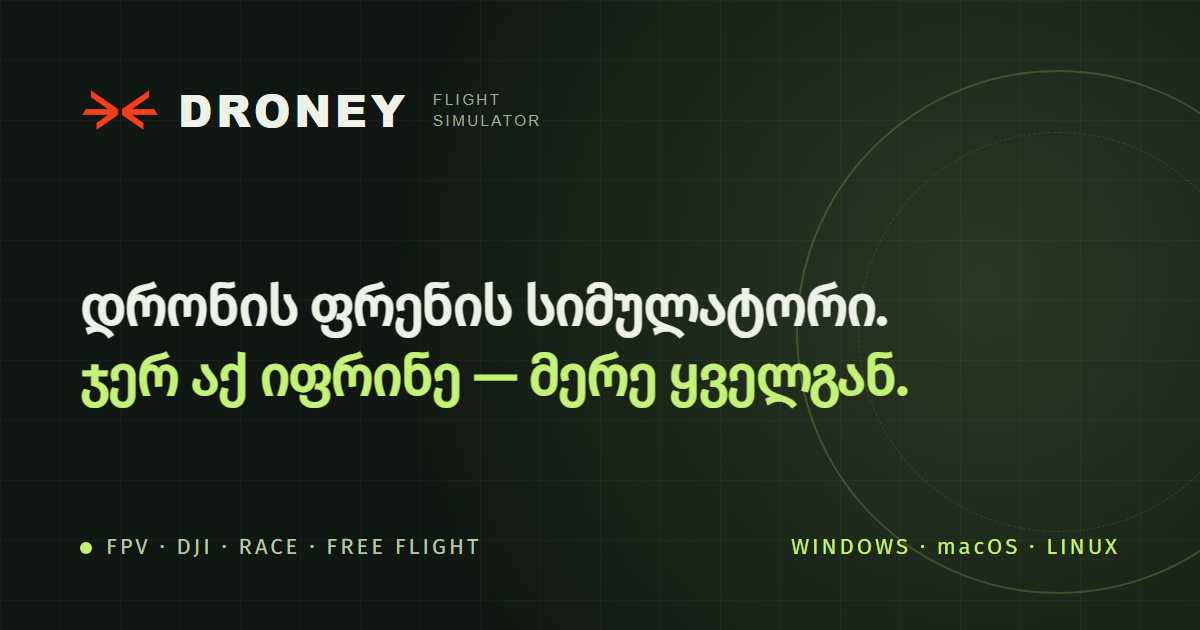
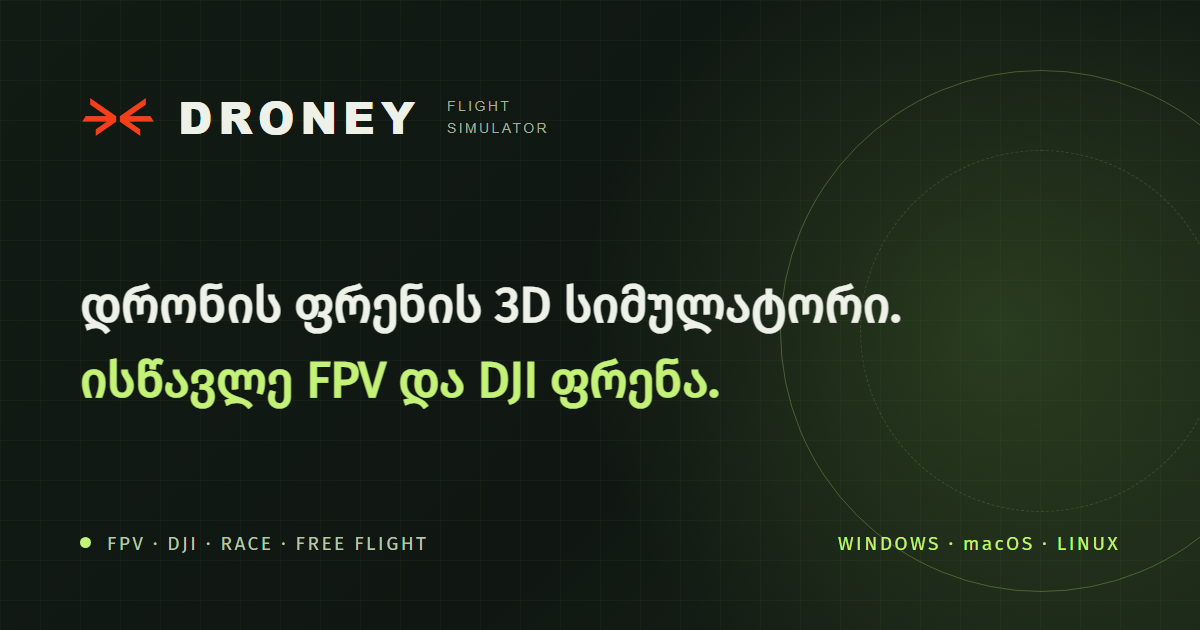
Refresh social preview image with the new 3D simulator copy

diff --git a/index.html b/index.html
@@ -1,5 +1,5 @@
 <!doctype html>
-<html lang="ka"><head><meta charset="utf-8"><meta name="viewport" content="width=device-width, initial-scale=1"><meta name="theme-color" content="#101712"><meta name="description" content="ისწავლე დრონის მართვა DRONEY-ის 3D სიმულატორში. ივარჯიშე FPV და DJI ფრენაში, გაიარე რბოლის ტრასები და გამოიყენე კლავიატურა ან დრონის პულტი."><title>DRONEY – დრონის ფრენის 3D სიმულატორი | FPV &amp; DJI</title><link rel="icon" href="assets/mark.png"><link rel="canonical" href="https://droney.ge/"><link rel="alternate" hreflang="ka" href="https://droney.ge/"><link rel="alternate" hreflang="en" href="https://droney.ge/?lang=en"><link rel="alternate" hreflang="x-default" href="https://droney.ge/"><meta name="robots" content="index, follow, max-image-preview:large"><meta property="og:type" content="website"><meta property="og:site_name" content="DRONEY"><meta property="og:locale" content="ka_GE"><meta property="og:locale:alternate" content="en_US"><meta property="og:url" content="https://droney.ge/"><meta property="og:title" content="DRONEY – დრონის ფრენის 3D სიმულატორი | FPV &amp; DJI"><meta property="og:description" content="ისწავლე დრონის მართვა DRONEY-ის 3D სიმულატორში. ივარჯიშე FPV და DJI ფრენაში, გაიარე რბოლის ტრასები და გამოიყენე კლავიატურა ან დრონის პულტი."><meta property="og:image" content="https://droney.ge/assets/og-image.png"><meta property="og:image:type" content="image/png"><meta property="og:image:width" content="1200"><meta property="og:image:height" content="630"><meta property="og:image:alt" content="DRONEY — დრონის ფრენის სიმულატორი"><meta name="twitter:card" content="summary_large_image"><meta name="twitter:title" content="DRONEY – დრონის ფრენის 3D სიმულატორი | FPV &amp; DJI"><meta name="twitter:description" content="ისწავლე დრონის მართვა DRONEY-ის 3D სიმულატორში. ივარჯიშე FPV და DJI ფრენაში, გაიარე რბოლის ტრასები და გამოიყენე კლავიატურა ან დრონის პულტი."><meta name="twitter:image" content="https://droney.ge/assets/og-image.png"><link rel="apple-touch-icon" href="assets/mark.png"><script type="application/ld+json">{"@context":"https://schema.org","@graph":[{"@type":"WebSite","@id":"https://droney.ge/#website","url":"https://droney.ge/","name":"DRONEY","inLanguage":["ka","en"]},{"@type":"SoftwareApplication","name":"DRONEY","alternateName":"DRONEY Flight Simulator","url":"https://droney.ge/","image":"https://droney.ge/assets/og-image.png","description":"ისწავლე დრონის მართვა DRONEY-ის 3D სიმულატორში. ივარჯიშე FPV და DJI ფრენაში, გაიარე რბოლის ტრასები და გამოიყენე კლავიატურა ან დრონის პულტი.","applicationCategory":"GameApplication","applicationSubCategory":"Drone flight simulator","operatingSystem":"Windows, macOS, Linux","inLanguage":["ka","en"],"downloadUrl":"https://github.com/iibekaia/droney-releases/releases/latest","offers":{"@type":"Offer","price":"0","priceCurrency":"GEL"}}]}</script><link rel="stylesheet" href="style.css"><script src="i18n.js" defer></script><script src="downloads.js" defer></script><script src="app.js" defer></script><script type="module" src="model-viewer.js"></script><script>(function(c,l,a,r,i,t,y){c[a]=c[a]||function(){(c[a].q=c[a].q||[]).push(arguments)};t=l.createElement(r);t.async=1;t.src="https://www.clarity.ms/tag/"+i;y=l.getElementsByTagName(r)[0];y.parentNode.insertBefore(t,y);})(window,document,"clarity","script","z5egdhqn2q");</script></head>
+<html lang="ka"><head><meta charset="utf-8"><meta name="viewport" content="width=device-width, initial-scale=1"><meta name="theme-color" content="#101712"><meta name="description" content="ისწავლე დრონის მართვა DRONEY-ის 3D სიმულატორში. ივარჯიშე FPV და DJI ფრენაში, გაიარე რბოლის ტრასები და გამოიყენე კლავიატურა ან დრონის პულტი."><title>DRONEY – დრონის ფრენის 3D სიმულატორი | FPV &amp; DJI</title><link rel="icon" href="assets/mark.png"><link rel="canonical" href="https://droney.ge/"><link rel="alternate" hreflang="ka" href="https://droney.ge/"><link rel="alternate" hreflang="en" href="https://droney.ge/?lang=en"><link rel="alternate" hreflang="x-default" href="https://droney.ge/"><meta name="robots" content="index, follow, max-image-preview:large"><meta property="og:type" content="website"><meta property="og:site_name" content="DRONEY"><meta property="og:locale" content="ka_GE"><meta property="og:locale:alternate" content="en_US"><meta property="og:url" content="https://droney.ge/"><meta property="og:title" content="DRONEY – დრონის ფრენის 3D სიმულატორი | FPV &amp; DJI"><meta property="og:description" content="ისწავლე დრონის მართვა DRONEY-ის 3D სიმულატორში. ივარჯიშე FPV და DJI ფრენაში, გაიარე რბოლის ტრასები და გამოიყენე კლავიატურა ან დრონის პულტი."><meta property="og:image" content="https://droney.ge/assets/og-image.png"><meta property="og:image:type" content="image/png"><meta property="og:image:width" content="1200"><meta property="og:image:height" content="630"><meta property="og:image:alt" content="DRONEY – დრონის ფრენის 3D სიმულატორი"><meta name="twitter:card" content="summary_large_image"><meta name="twitter:title" content="DRONEY – დრონის ფრენის 3D სიმულატორი | FPV &amp; DJI"><meta name="twitter:description" content="ისწავლე დრონის მართვა DRONEY-ის 3D სიმულატორში. ივარჯიშე FPV და DJI ფრენაში, გაიარე რბოლის ტრასები და გამოიყენე კლავიატურა ან დრონის პულტი."><meta name="twitter:image" content="https://droney.ge/assets/og-image.png"><link rel="apple-touch-icon" href="assets/mark.png"><script type="application/ld+json">{"@context":"https://schema.org","@graph":[{"@type":"WebSite","@id":"https://droney.ge/#website","url":"https://droney.ge/","name":"DRONEY","inLanguage":["ka","en"]},{"@type":"SoftwareApplication","name":"DRONEY","alternateName":"DRONEY Flight Simulator","url":"https://droney.ge/","image":"https://droney.ge/assets/og-image.png","description":"ისწავლე დრონის მართვა DRONEY-ის 3D სიმულატორში. ივარჯიშე FPV და DJI ფრენაში, გაიარე რბოლის ტრასები და გამოიყენე კლავიატურა ან დრონის პულტი.","applicationCategory":"GameApplication","applicationSubCategory":"Drone flight simulator","operatingSystem":"Windows, macOS, Linux","inLanguage":["ka","en"],"downloadUrl":"https://github.com/iibekaia/droney-releases/releases/latest","offers":{"@type":"Offer","price":"0","priceCurrency":"GEL"}}]}</script><link rel="stylesheet" href="style.css"><script src="i18n.js" defer></script><script src="downloads.js" defer></script><script src="app.js" defer></script><script type="module" src="model-viewer.js"></script><script>(function(c,l,a,r,i,t,y){c[a]=c[a]||function(){(c[a].q=c[a].q||[]).push(arguments)};t=l.createElement(r);t.async=1;t.src="https://www.clarity.ms/tag/"+i;y=l.getElementsByTagName(r)[0];y.parentNode.insertBefore(t,y);})(window,document,"clarity","script","z5egdhqn2q");</script></head>
 <body><header><a class="brand" href="#"><img src="assets/mark.png" alt="">DRONEY<span>FLIGHT SIMULATOR</span></a><nav aria-label="მთავარი ნავიგაცია" data-i18n-aria="nav.label"><a href="#experience" data-i18n="nav.try">გამოცადე</a><a href="#support" data-i18n="nav.support">მხარდაჭერა</a><a class="nav-download" href="#download" data-i18n="nav.download">გადმოწერა ↗</a><div class="lang-switch" role="group" aria-label="ენა" data-i18n-aria="lang.group"><button type="button" data-lang="ka" lang="ka" aria-label="ქართული" class="active" aria-pressed="true">ქარ</button><button type="button" data-lang="en" lang="en" aria-label="English" aria-pressed="false">EN</button></div></nav></header>
 <main><section class="hero"><div class="hero-copy"><p class="eyebrow"><span class="status"></span> <span data-i18n="hero.eyebrow">ფრენის სიმულატორი / DESKTOP</span></p><h1 data-i18n="hero.title">ჯერ აქ იფრინე.<br><em>მერე — ყველგან.</em></h1><p class="intro" data-i18n="hero.intro">პირველი აფრენიდან ზუსტ მანევრებამდე. გაიცანი დრონის მართვა, გაიარე რბოლის ტრასა და იპოვე შენი ფრენის სტილი DRONEY-ში.</p><div class="actions"><a class="button primary" href="#download" data-i18n="hero.cta">გადმოწერე DRONEY <span>↓</span></a><a class="text-link" href="#experience" data-i18n="hero.demo">სცადე ინტერაქტიული დემო ↗</a></div><div class="hero-meta">WINDOWS <span>·</span> macOS <span>·</span> LINUX <span> / </span> <span data-i18n="hero.input">კლავიატურა ან პულტი</span></div></div><div class="hero-art"><div class="art-label">TRAIN. EXPLORE. FLY.</div><div id="model-viewer" role="region" aria-label="DJI Mini 3-ის ინტერაქტიული 3D მოდელი" data-i18n-aria="model.region"><p id="model-status" role="status">3D მოდელი იტვირთება…</p></div><div class="model-toolbar"><div class="segmented" role="group" aria-label="მოდელის მდგომარეობა" data-i18n-aria="model.state"><button data-model="unfolded" class="active" aria-pressed="true" data-i18n="model.unfolded">გაშლილი</button><button data-model="folded" aria-pressed="false" data-i18n="model.folded">დაკეცილი</button></div><button id="model-reset" type="button" aria-label="3D ხედის აღდგენა" data-i18n-aria="model.reset">↺</button></div><p class="model-hint" data-i18n="model.hint">გადაათრიე — შემობრუნება · სქროლი — მოახლოება</p><div class="art-bottom"><span>01 / DJI MINI 3</span><span><i></i> 3D MODEL</span></div></div></section>
 <div class="spec-strip"><span><b>500 Hz</b> <span data-i18n="spec.physics">ფიზიკის ბიჯი</span></span><span><b>FPV + DJI</b> <span data-i18n="spec.styles">ორი ფრენის სტილი</span></span><span><b data-i18n="spec.views">3 ხედვა</b> FPV / Chase / LOS</span><span><b data-i18n="spec.controller">შენი პულტი</b> <span data-i18n="spec.memory">შენი კუნთის მეხსიერება</span></span></div>
